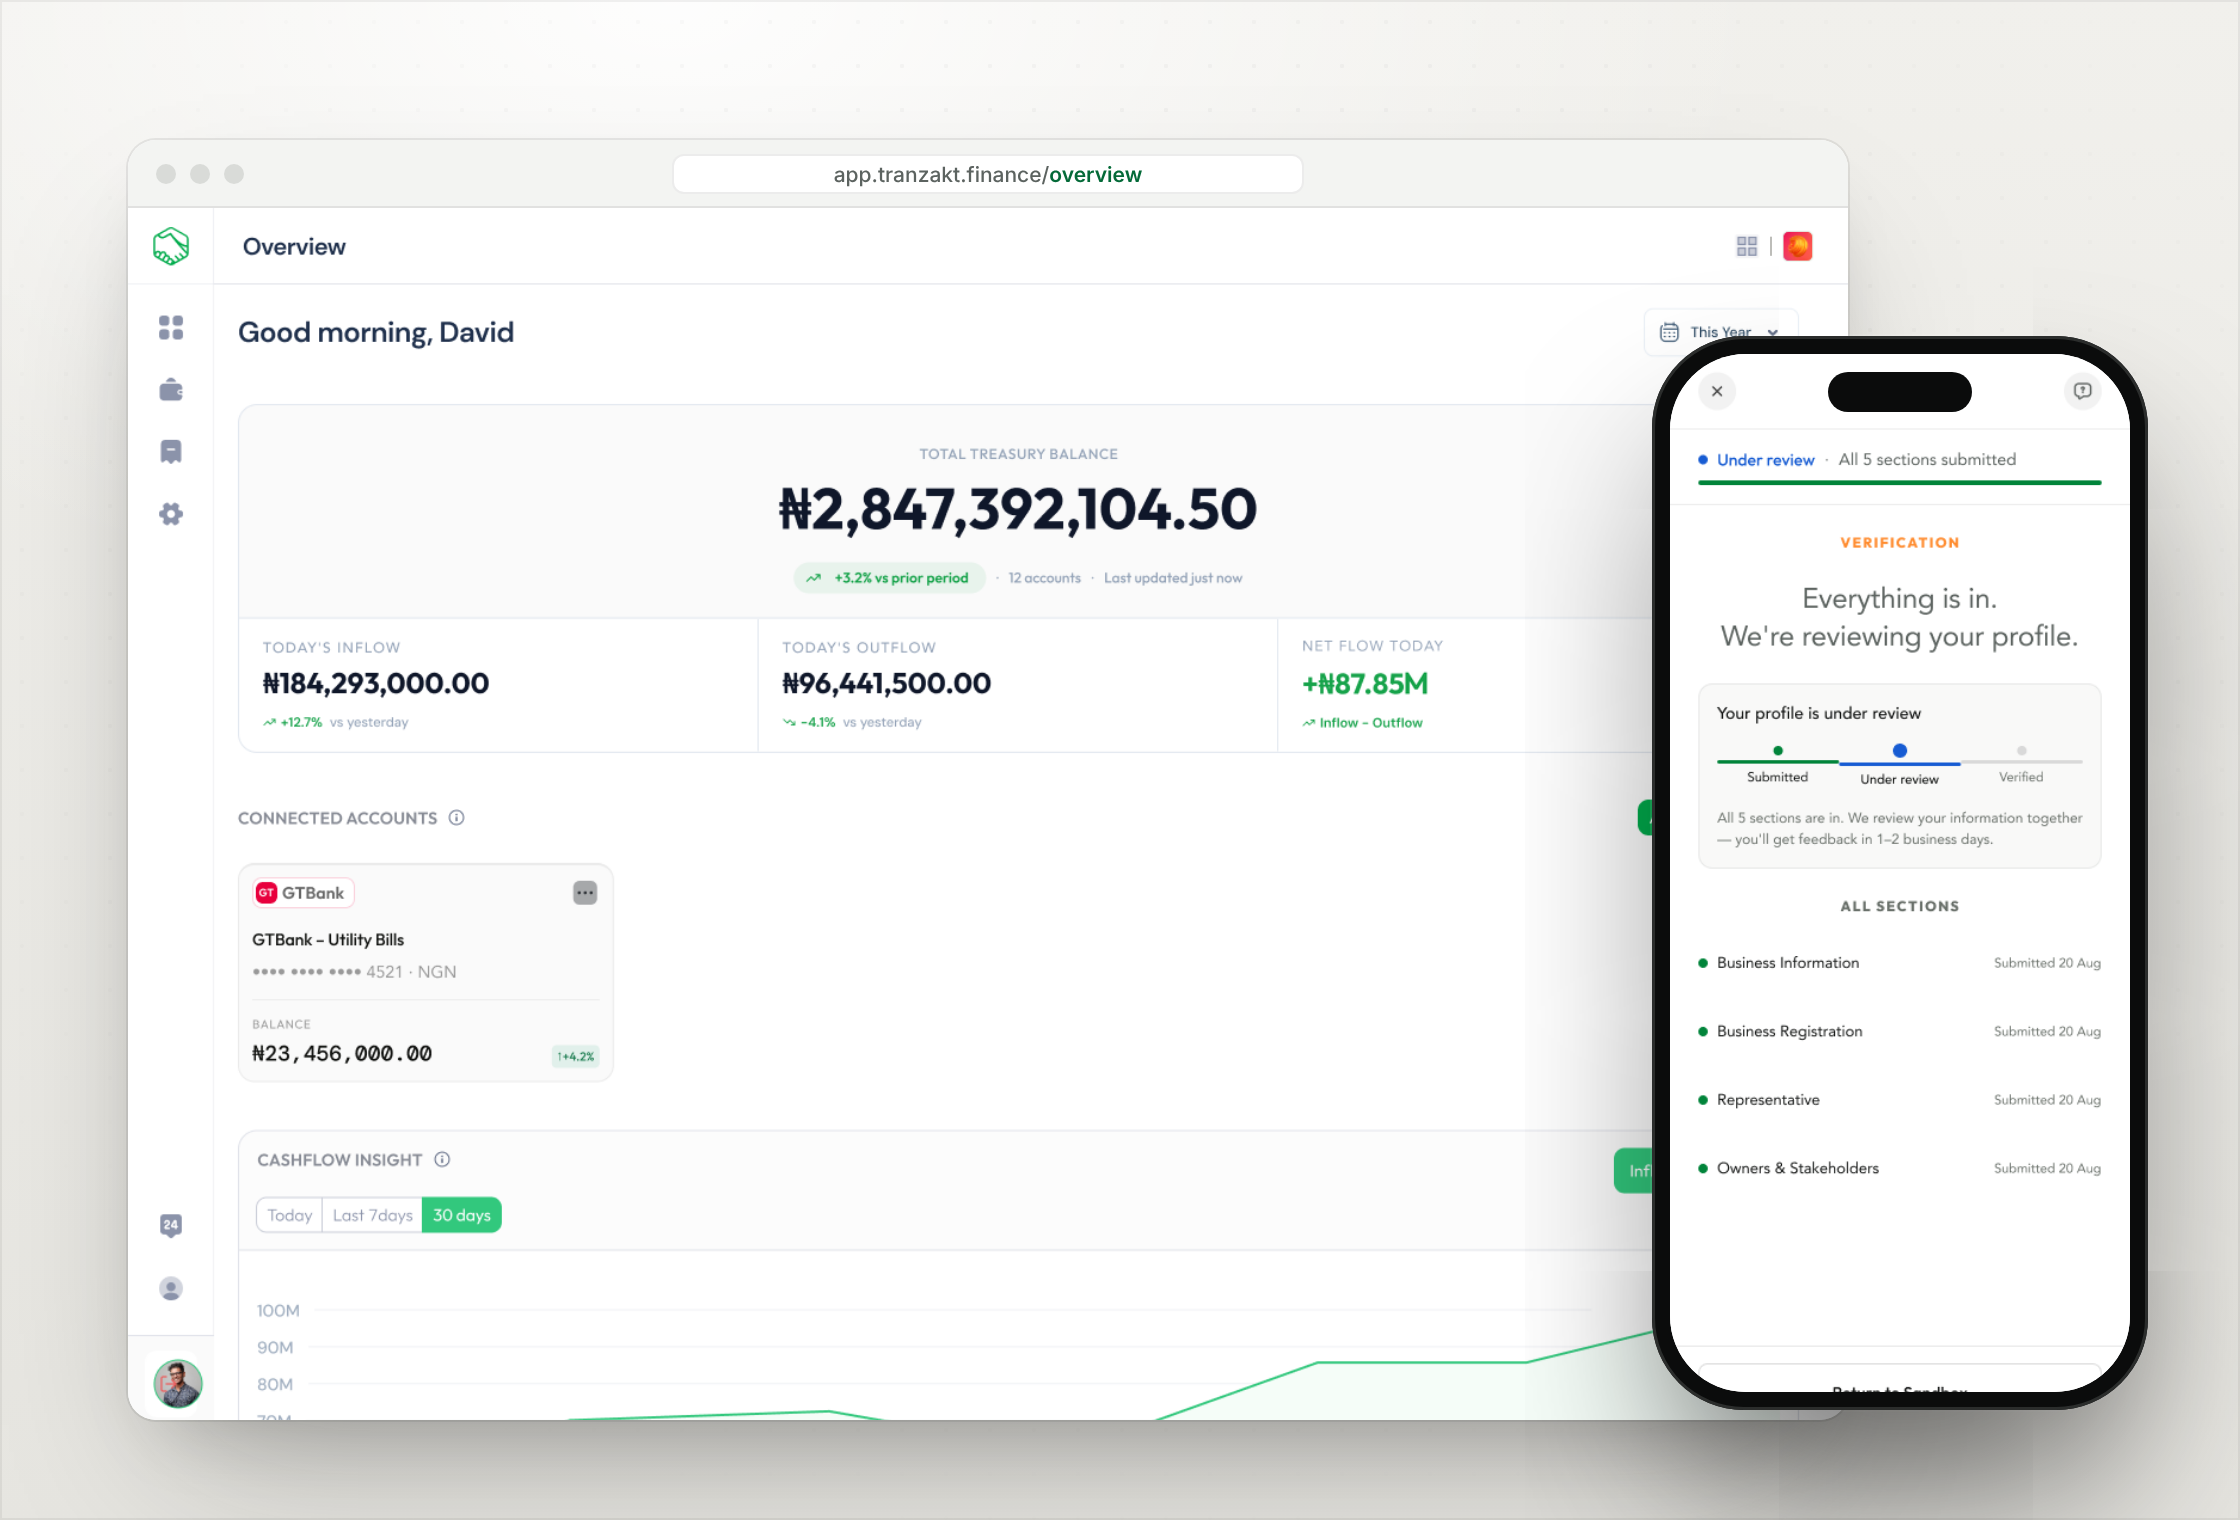
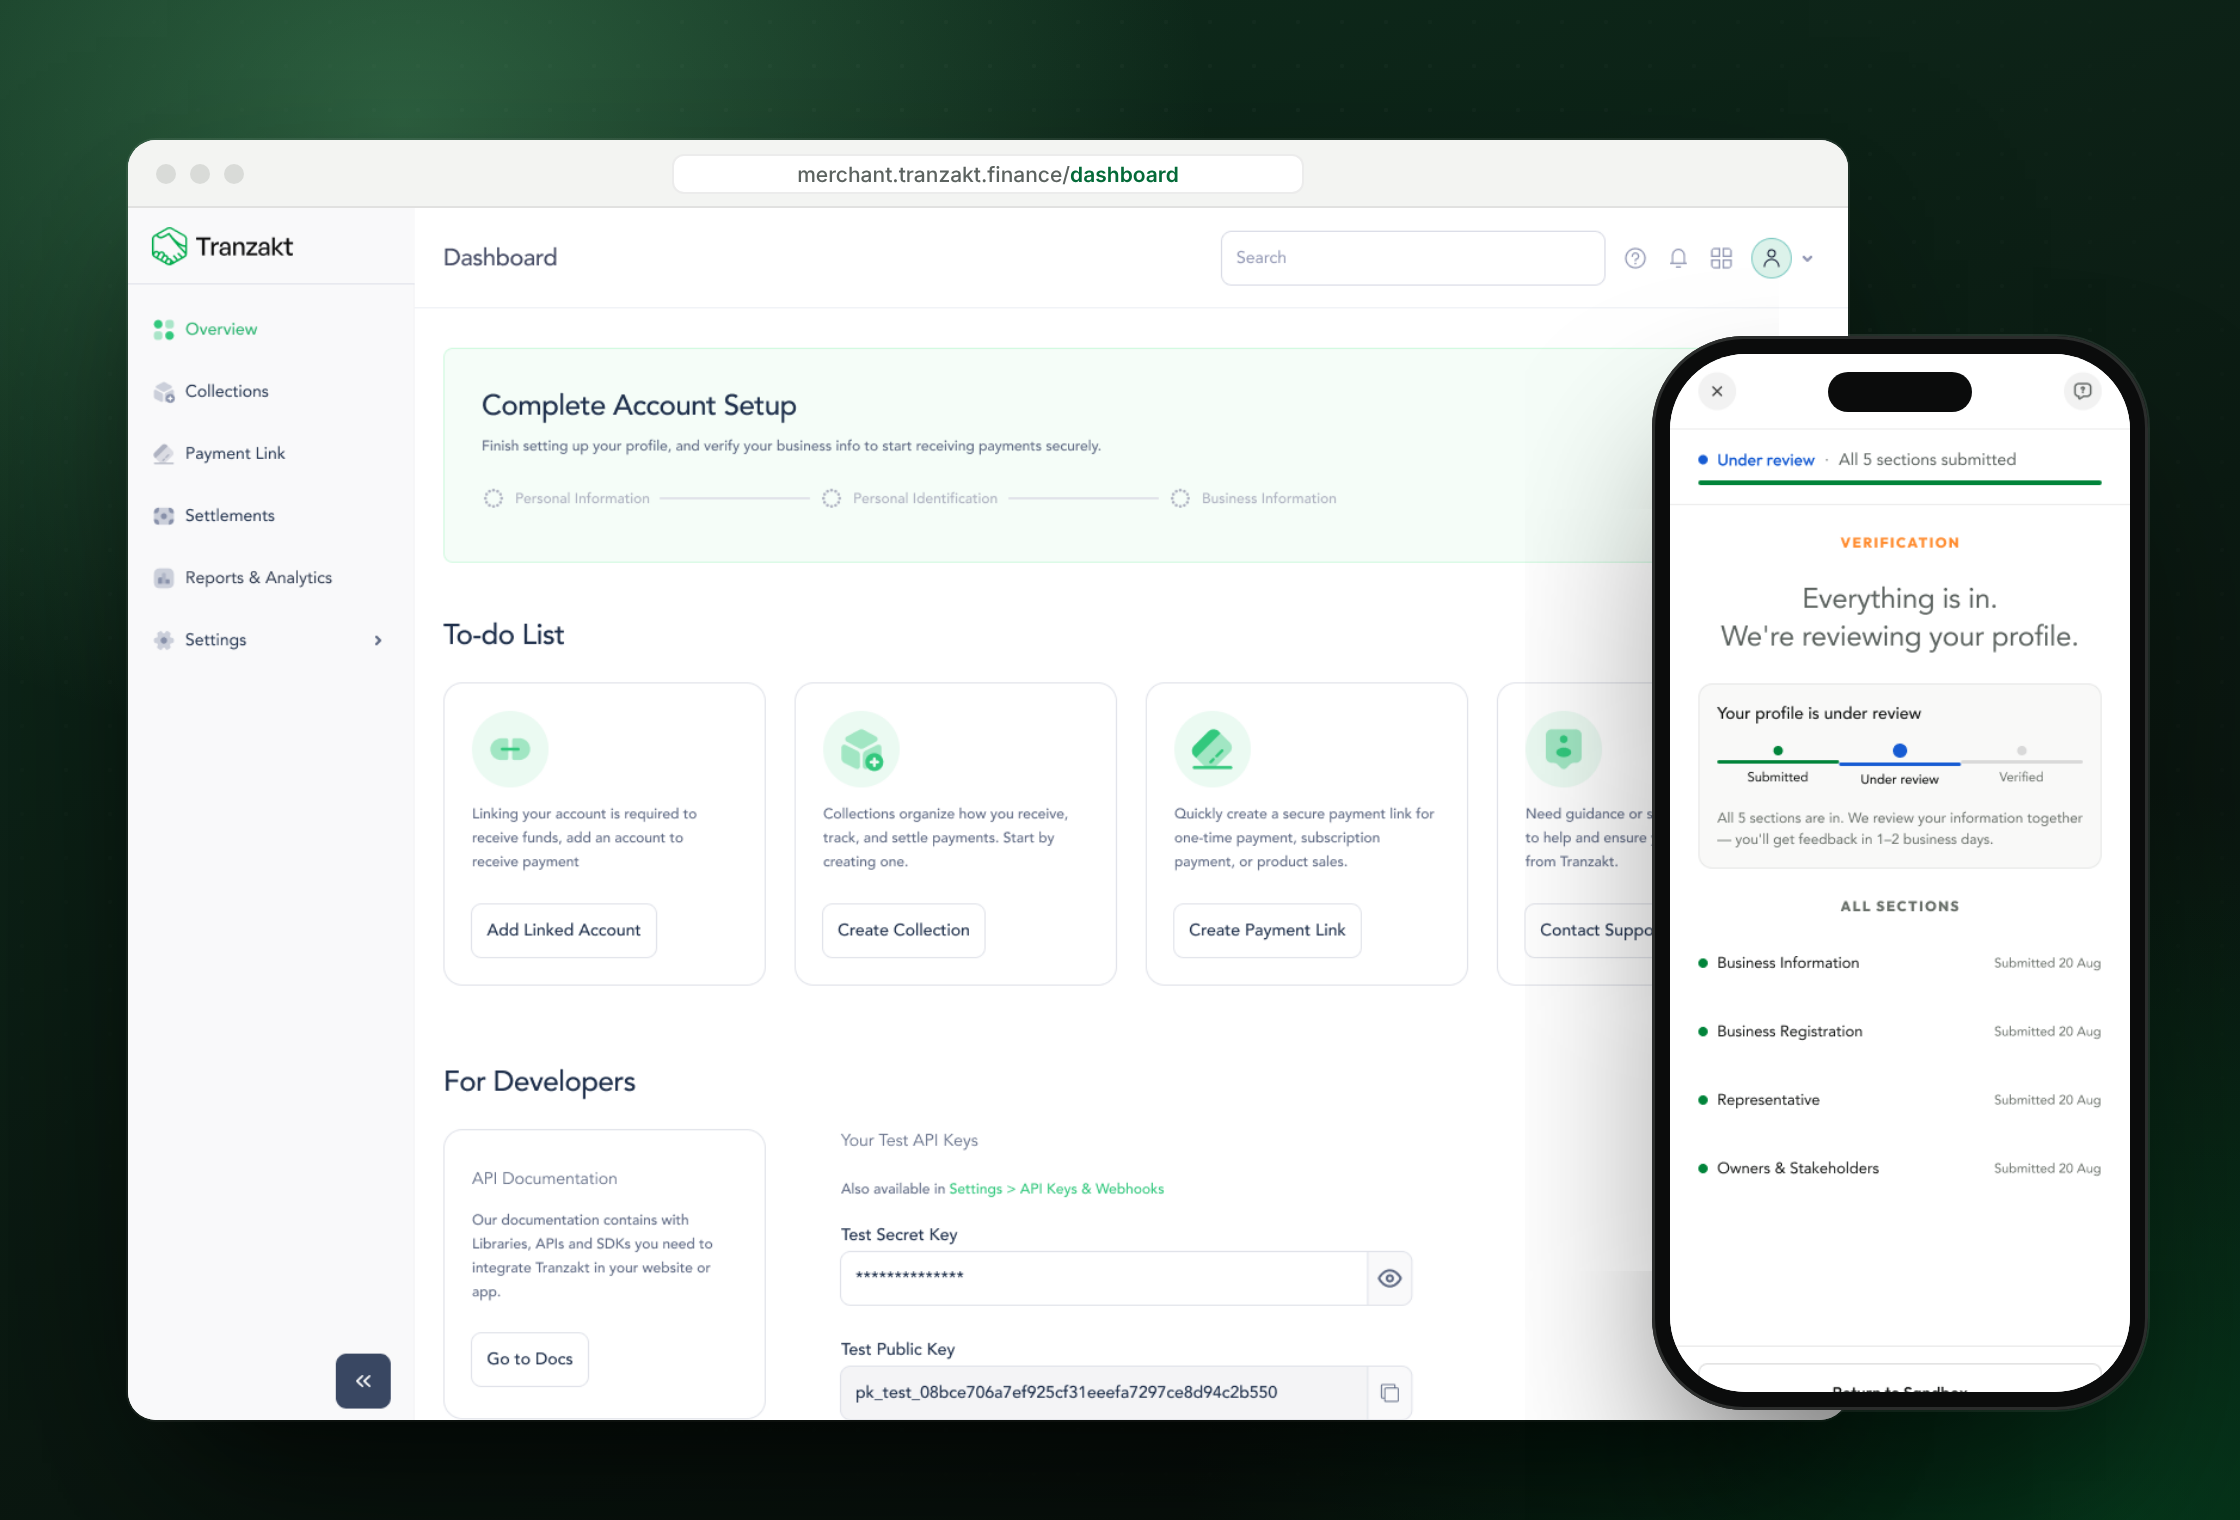
Tranzakt case study: lead with the Business Suite, Treasury marked not yet live
Claude-Session: https://claude.ai/code/session_01PeDtK6VpVwuYvu7tYsv15D

diff --git a/framer/drafts/tranzakt-rewrite-2026-11-17.md b/framer/drafts/tranzakt-rewrite-2026-11-17.md
@@ -1,0 +1,31 @@
+# Tranzakt case study rewrite (17 Nov 2026)
+
+Tranzakt is now positioned as a **B2B payments platform**. Its core, live product is the **Business Suite** (merchant dashboard, payment links, collections and a hosted checkout). **Treasury** (multi-bank consolidation) is not live, so it moves to the last section and is labelled "not yet live".
+
+Written to the CMS, not published. The previous text is in `tranzakt-cms-before-2026-11-17.json`.
+
+**Please check:** the problem section (S01) is my framing of how businesses got paid before. Correct it if it doesn't match what you saw.
+
+| Field | New text |
+|---|---|
+| Index line | B2B fintech. Business payments: payment links, collections and checkout |
+| Lede | Leading product design for Tranzakt, a B2B payments platform for Nigerian businesses. At its core is the Business Suite, where merchants get paid by their customers through payment links, collections and a hosted checkout, on web and mobile. |
+| Result | One suite where a business sets up, requests money and gets paid, with a checkout that shows only the fee the customer pays and verification that always shows the next step. |
+| Stats | 1 Business Suite: links, collections, checkout · 4 payment methods, web = mobile · 2 user types: merchants & their customers · 3 account types, one verification flow |
+
+## Sections (sidebar order)
+1. **The problem:** Nigerian businesses take payments by transfer, card and USSD, often with no simple way to request a payment, see who has paid, and match it to the right customer.
+2. **Approach:** unchanged principles. Scope now reads: Business Suite (merchant dashboard, payment links and collections), checkout, KYC/KYB verification and the mobile app. "I also designed Treasury, a multi-bank view that hasn't launched yet."
+3. **Results:**
+   - a faster first day
+   - payment requests that carry everything
+   - no surprise fees
+   - verification that doesn't stall
+4. **Business Suite** (new, first feature, merchant dashboard image): the to-do list that leads to a first payment, test API keys, the payment link page (type, amount, description, settlement account, customer details, copy/visit, invoices tab) and the payment email with a secure link.
+5. **Checkout:** unchanged.
+6. **Verification:** unchanged.
+7. **Treasury (not yet live)** (last, Treasury image): designed, not launched.
+
+## Images
+- Cover and Preview now show the merchant dashboard (with the mobile verification screen) instead of Treasury.
+- The S06 and S09 images were swapped to match the new section order.

diff --git a/framer/HANDOFF.md b/framer/HANDOFF.md
@@ -481,3 +481,14 @@ Inspired by lanrefadire.com (patterns recreated in our own code and visual langu
   - Figma connector: "tool call limit on the Starter plan".
 - To finish: export the frames above at 2× into the scratchpad `fig/src` as `<name>-top.png`, add scenes to `case-mocks.cjs`, run it, then upload like `hiimg.mjs` does.
 - Not published yet.
+
+## 17 Nov 2026: Tranzakt repositioned around the Business Suite
+- Gift: Tranzakt is B2B payments. The live core is the Business Suite (merchant dashboard, payment links, collections). Treasury isn't live.
+- CMS rewritten:
+  - index line, lede, result, stats
+  - S01–S03
+  - S06 is now "Business Suite"; S09 is "Treasury (not yet live)"
+  - S07 Checkout and S08 Verification unchanged
+- Images: S06 and S09 swapped. Cover and Preview re-rendered with the merchant dashboard (`mockups/mock.cjs` cover/preview scenes now use `merchant@1x.png`).
+- Review notes: `drafts/tranzakt-rewrite-2026-11-17.md`. Previous field values: `drafts/tranzakt-cms-before-2026-11-17.json`.
+- Not published yet.
